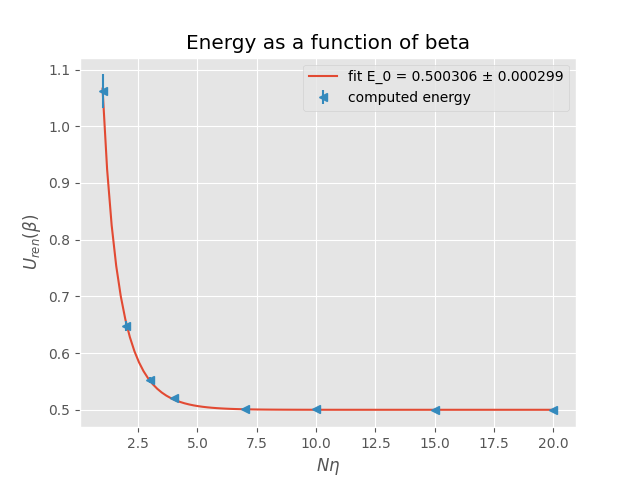
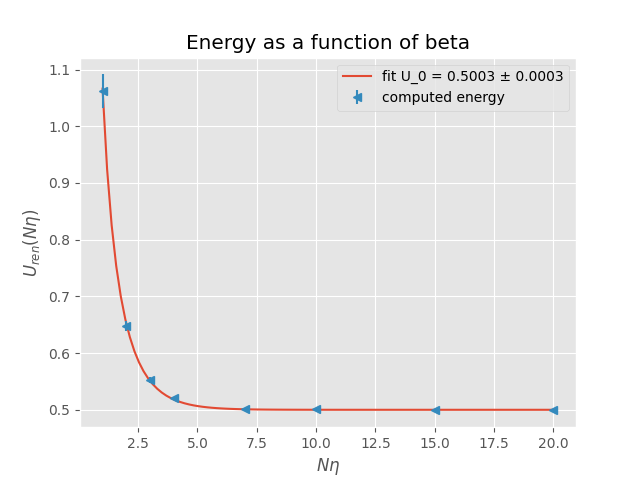
plot labels update and fit results saved in fit.txt

Changed region(s): [[0.5, 0.125, 0.875, 0.2188], [0.0312, 0.4375, 0.0625, 0.5938]]

diff --git a/harmonic_plot.py b/harmonic_plot.py
@@ -69,8 +69,8 @@ def plot_wavefun(beta, side):
     # axis and style
     fig = plt.figure(title)
     plt.title(title)
-    plt.ylabel('$ Pr(x) $')
-    plt.xlabel('$ x $')
+    plt.ylabel('$ Pr(y) $')
+    plt.xlabel('$ y $')
     # data points
     binwidth = 0.1
     n_bins = np.arange(-4, 4, binwidth)
@@ -128,7 +128,7 @@ def plot_energy(beta):
     # points and function
     fit_x = np.linspace(min(x), max(x), 100)
     fit_y = fit_fun(fit_x, *parameters)
-    fit_label = f'fit E_c = {fit_a:.4f} ± {fit_da:.4f}'
+    fit_label = f'fit U(0) = {fit_a:.4f} ± {fit_da:.4f}'
     plt.plot(fit_x, fit_y, '-', label=fit_label)
     sim_label = f'collected data'
     plt.errorbar(x, y, yerr=y_err, fmt='<',label=sim_label)
@@ -162,12 +162,12 @@ def plot_energy_beta(x, y, y_err):
     # axis and style
     fig = plt.figure(title)
     plt.title(title)
-    plt.ylabel(r'$ U_{ren}(\beta) $')
+    plt.ylabel(r'$ U_{ren}(N \eta) $')
     plt.xlabel(r'$ N \eta $')
     # points and function
     fit_x = np.linspace(min(x), max(x), 100)
     fit_y = fit_ene(fit_x, *parameters)
-    fit_label = f'fit E_0 = {fit_a:.6f} ± {fit_da:.6f}'
+    fit_label = f'fit U_0 = {fit_a:.4f} ± {fit_da:.4f}'
     plt.plot(fit_x, fit_y, '-', label=fit_label)
     sim_label = f'computed energy'
     plt.errorbar(x, y, yerr=y_err, fmt='<',label=sim_label)
